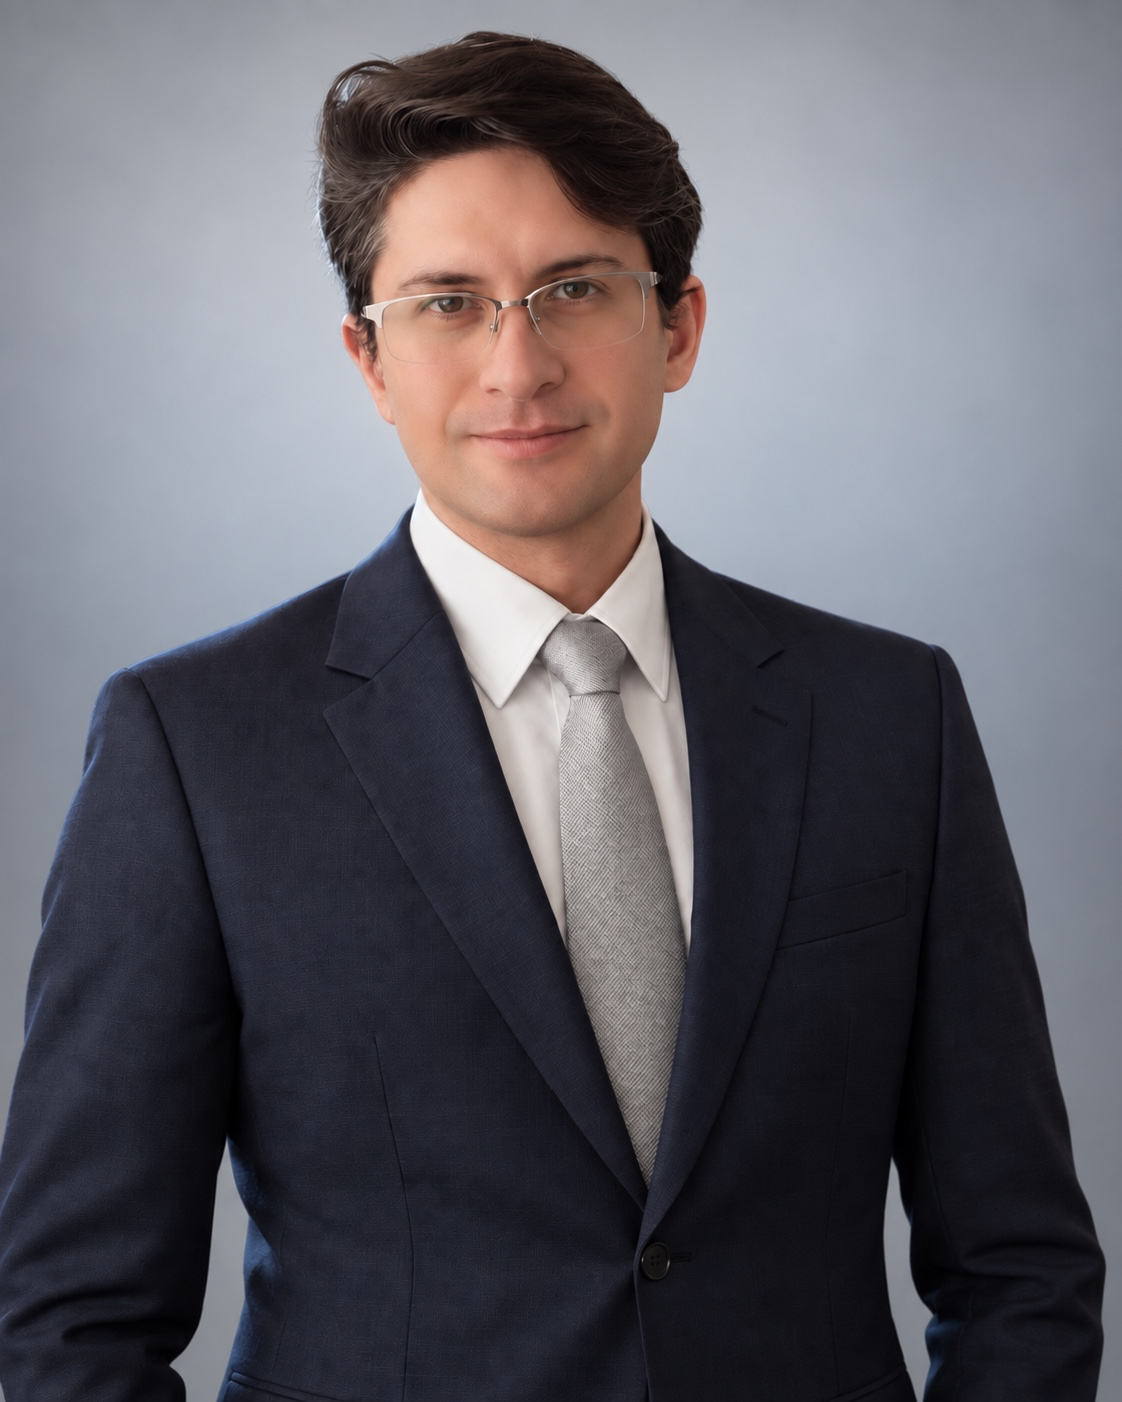
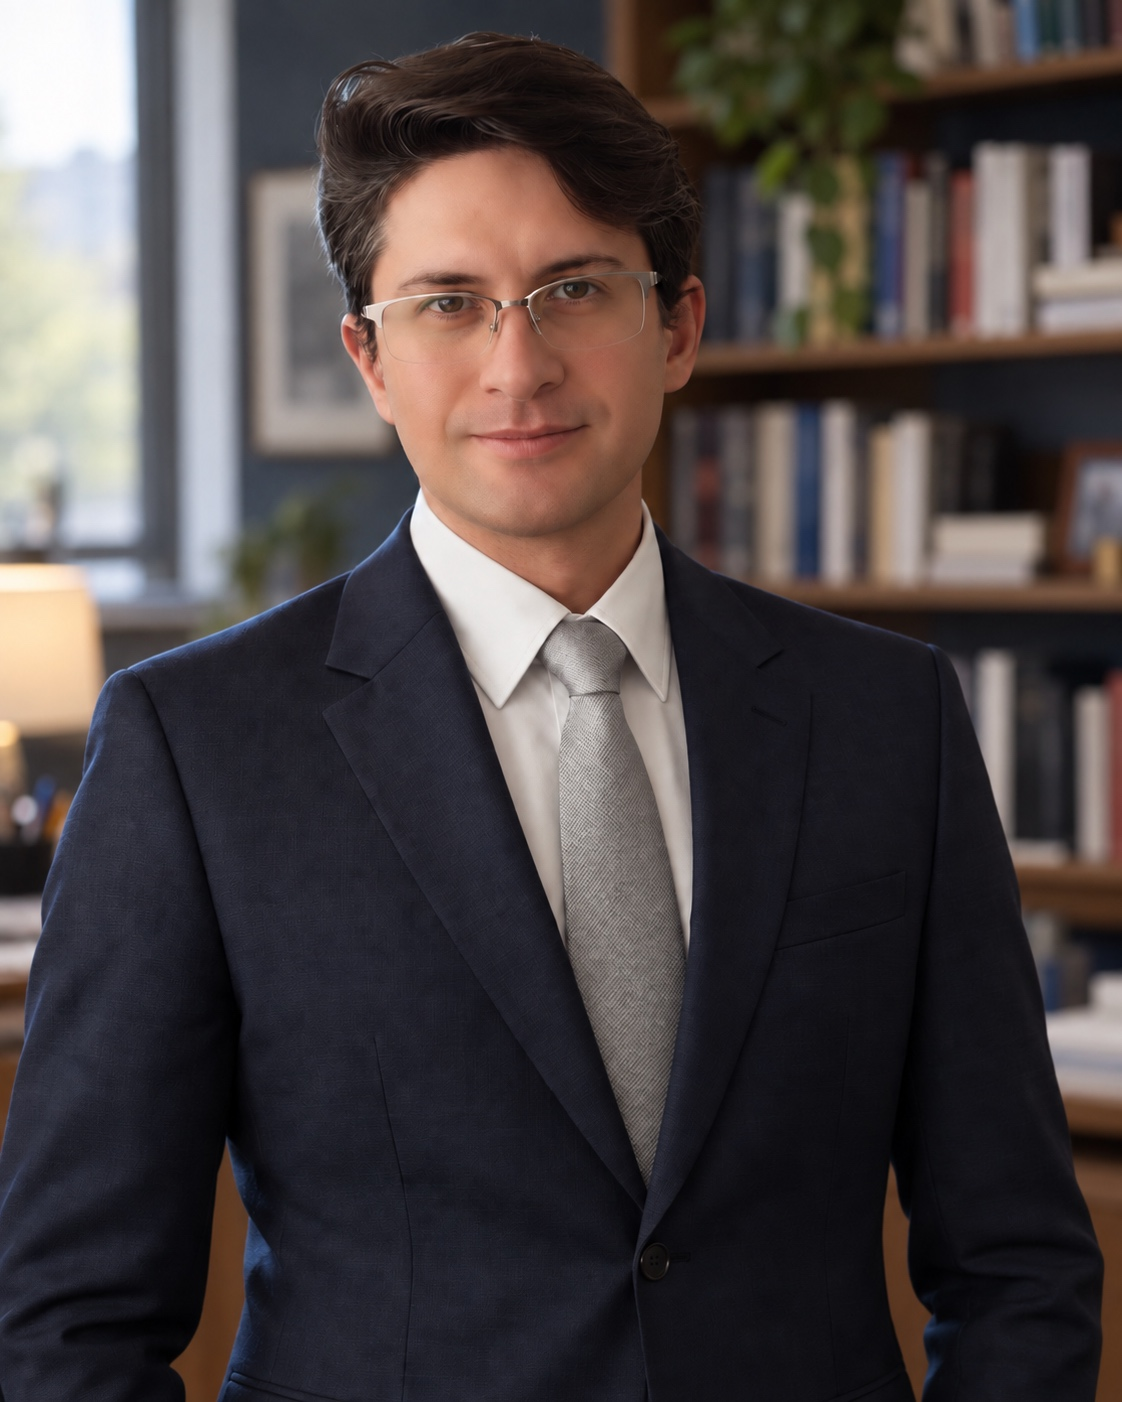
Use faculty office profile portrait

diff --git a/assets/media/profile-portrait-archive/README.md b/assets/media/profile-portrait-archive/README.md
@@ -4,7 +4,7 @@ This directory preserves every profile-picture option generated during the Octob
 
 ## Active selection
 
-- `option-c-backgrounds/c4-light-neutral-studio.png` is the source for the active website avatar at `content/authors/admin/avatar.jpg`.
+- `option-c-natural-backgrounds/cn1-natural-faculty-office.png` is the source for the active website avatar at `content/authors/admin/avatar.jpg`.
 
 ## Contents
 
@@ -13,8 +13,8 @@ This directory preserves every profile-picture option generated during the Octob
 - `variation-b-approachable-academic.png` — initial approachable academic portrait.
 - `variation-c-formal-waist-up.png` — initial formal waist-up portrait used as the basis for the background studies.
 - `variation-d-contemporary-half-body.png` — initial contemporary half-body portrait.
-- `option-c-backgrounds/` — first four background treatments, including the selected C4 neutral studio.
-- `option-c-natural-backgrounds/` — natural, optically blurred location backgrounds.
+- `option-c-backgrounds/` — first four background treatments, including the previously selected C4 neutral studio.
+- `option-c-natural-backgrounds/` — natural, optically blurred location backgrounds, including the selected CN1 faculty office.
 - `option-c-natural-palette/` — natural blurred backgrounds aligned with the website's navy, pale-blue, and warm-gold palette.
 - `*-comparison.png` files — labeled review sheets for each group.
 
